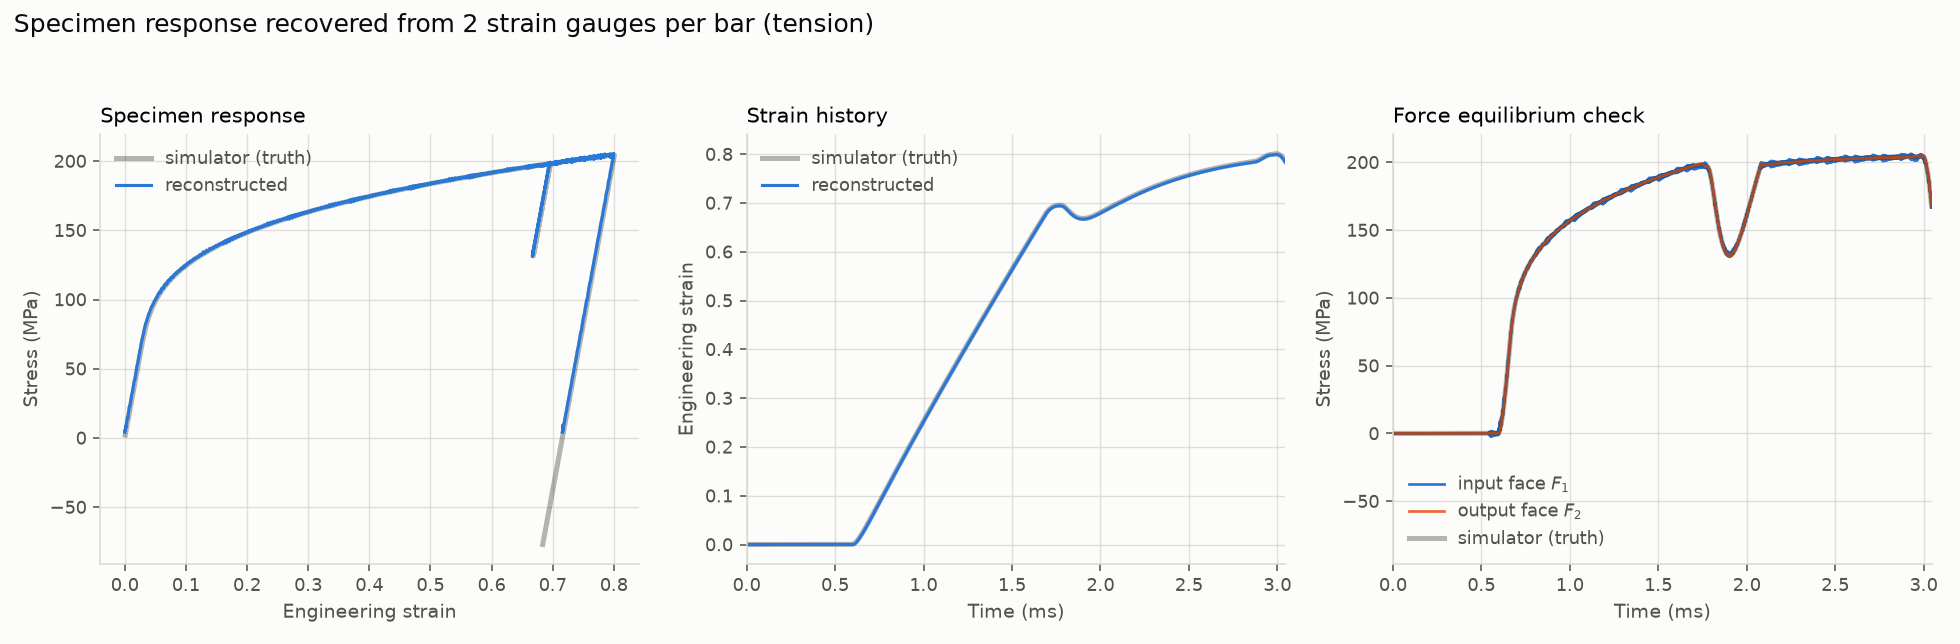
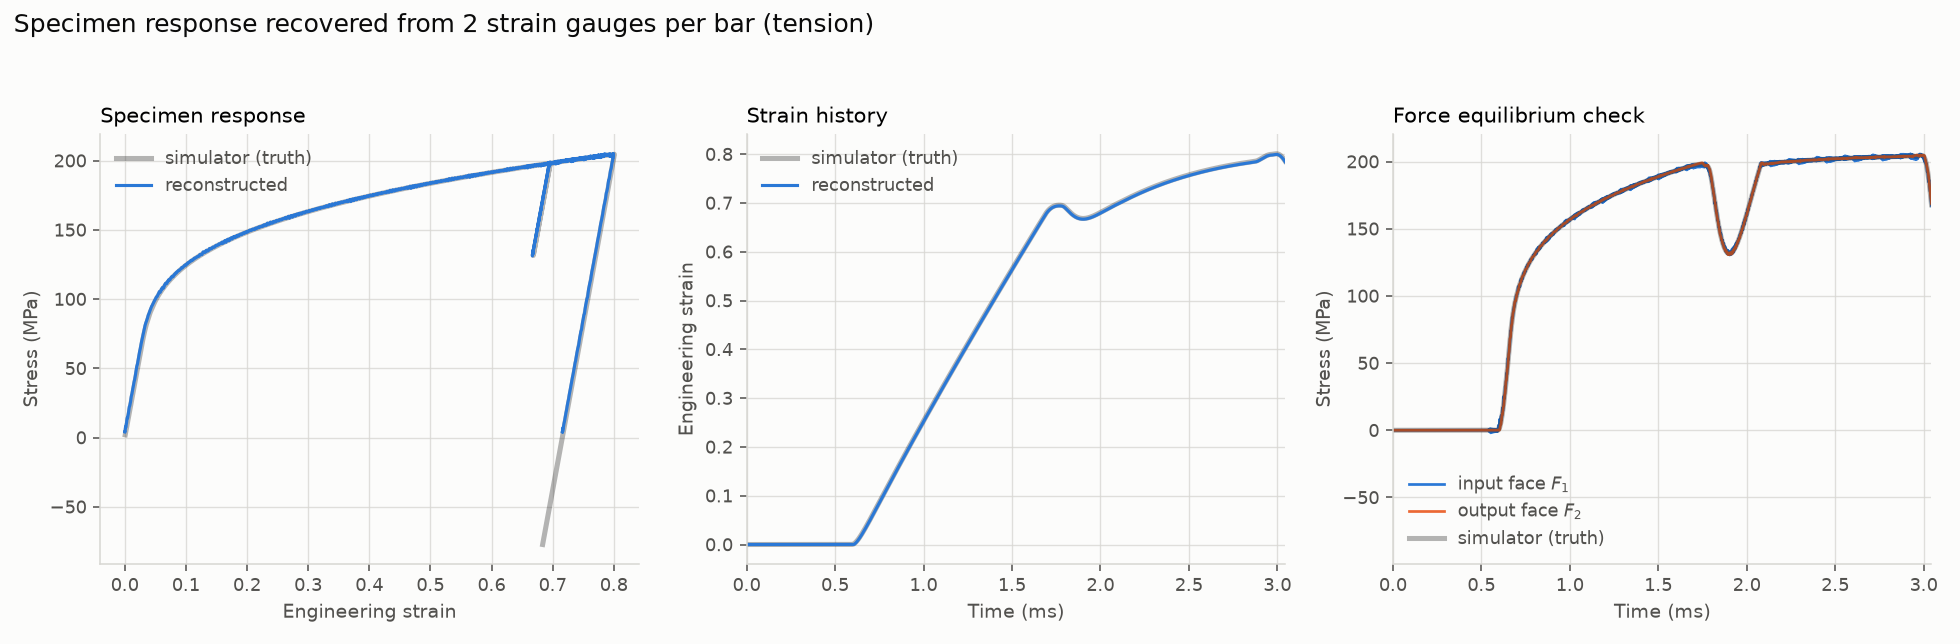
3wave: raise courant to 0.8, document the error budget
Investigated whether the explicit leapfrog integration limits accuracy, and
whether implicit or spectral integration would be worth switching to. It is
not, on both counts, and the measurements pointed the other way.

The lumped chain is exactly non-dispersive at courant = 1.0, so a LARGER
timestep is both faster and more accurate here. The tension model cannot
reach 1.0 -- the contact spring at the anvil node diverges there -- but is
stable to ~0.95, so 0.8 keeps a 20% margin:

  tension     stress 2.45e-03 -> 1.87e-03, strain unchanged, 1.6x fewer steps
  compression stress 4.23e-02 -> 3.73e-02

A ceiling test shows why no integrator can do much better: handing the
specimen estimator the simulator's exact interface forces, with no wave
separation at all, still gives 1.82e-03, because the specimen is genuinely
not in force equilibrium. Strain sits near 2.2e-03 across every integrator,
viscosity and mesh variant, and is flat against eta from 0.5 to 8.0 /ms.
Artificial viscosity matters more than the integrator: halving it doubles
the stress error.

Adds an "Accuracy and time integration" section recording the dispersion
relation, the error budget, the courant sweep and the reasoning against
implicit and spectral methods, so the question is settled in the repo.

Also refreshes the compression validation block, which still quoted
three-gauge figures after that case moved to two gauges.

diff --git a/3wave/README.md b/3wave/README.md
@@ -319,6 +319,121 @@ the stress looks perfect while the strain is garbage. **Tune eta on the strain,
 never the stress.** The module docstring in `wave_separation.py` has the full
 reasoning.
 
+That table was measured on the direct-impact case. On the current SHTB
+configuration the picture is blunter: eta is **completely flat from 0.5 to 8.0
+/ms** — every error identical to four digits — and only degrades below 0.5. Once
+you are above the floor, eta is not a tuning knob at all, and nothing is gained
+by hunting for an optimum. Re-measure it for your own record rather than
+assuming either table applies.
+
+## Accuracy and time integration
+
+Both simulators use explicit leapfrog on a lumped mass-spring chain. That is a
+deliberate choice, not an unexamined default, and the error budget below is why.
+The short version: **the time integration is not what limits accuracy here, and
+neither an implicit scheme nor a spectral method would help.**
+
+### The scheme is exactly non-dispersive at courant = 1
+
+For this discretisation the leapfrog dispersion relation is
+
+```
+sin(w~ dt/2) = C · sin(k · dx/2),        C = c·dt/dx
+```
+
+At `C = 1` the sine inverts exactly, every wavenumber travels at exactly `c`, and
+the numerical phase error is **zero at all wavelengths** — the "magic timestep".
+Below it, the error is small and grows with frequency:
+
+| f [kHz] | lambda [mm] | C = 0.5 | C = 0.8 | C = 1.0 |
+|---|---|---|---|---|
+| 10 | 505 | -4.8e-06 | -1.7e-06 | 0 |
+| 100 | 51 | -4.8e-04 | -1.7e-04 | 0 |
+| 200 | 25 | -1.9e-03 | -7.0e-04 | 0 |
+
+(`c_num/c - 1`, for `dx = 1 mm`.) At `C = 0.5` and 100 kHz that is 0.29 µs of
+timing drift over the full 3020 mm bar — 0.03 % of the 1097 µs pulse.
+
+The consequence is the opposite of the usual intuition: **a larger timestep is
+both faster and more accurate here.** Raising `courant` reduces phase error
+rather than adding any.
+
+### Where the error actually is
+
+Measured on the SHTB case, varying one thing at a time:
+
+| Variant | stress rel L2 | strain rel L2 |
+|---|---|---|
+| `C=0.8, damp=0.01, dx=1.0` (shipped) | 1.87e-03 | 2.27e-03 |
+| `C=0.5` | 2.45e-03 | 2.29e-03 |
+| half viscosity, `damp=0.005` | 5.50e-03 | 2.39e-03 |
+| double viscosity, `damp=0.02` | 1.92e-03 | 2.46e-03 |
+| 2x mesh, `dx=0.5` (2x cost) | 2.00e-03 | 2.11e-03 |
+| **exact interface forces, no separation at all** | **1.82e-03** | — |
+
+Two rows decide the question:
+
+- **The last one is a ceiling test.** Hand the specimen estimator the
+  simulator's own exact interface forces — skipping the wave separation
+  entirely — and the stress error is still 1.82e-03, because the specimen is
+  genuinely not in force equilibrium (face-force disagreement 2.75e-03). Most of
+  the residual is there before any numerics.
+- **Strain sits near 2.2e-03 regardless.** No integrator, viscosity or mesh
+  setting moves it much, and eta does not move it at all. It is set by the 1D
+  reduction — engineering strain from the face-velocity difference, against a
+  specimen that is itself a wave-bearing body.
+
+Note also that **artificial viscosity matters more than the integrator**:
+halving it more than doubles the stress error. It is suppressing grid ringing at
+the wavefronts, not merely cosmetic.
+
+### Why courant = 0.8
+
+| C | steps | stress | strain | F_in |
+|---|---|---|---|---|
+| 0.50 | 36861 | 2.45e-03 | 2.29e-03 | 5.25e-03 |
+| **0.80** | **23038** | **1.87e-03** | **2.27e-03** | **4.39e-03** |
+| 0.90 | 20478 | 1.68e-03 | 2.46e-03 | 4.18e-03 |
+| 0.95 | 19400 | 1.63e-03 | 2.54e-03 | 4.14e-03 |
+| 1.00 | — | NaN | | |
+
+The magic timestep is unreachable in the tension model: the contact spring adds a
+second force path at the anvil node and `C = 1.0` diverges, though it stays
+stable to ~0.95. `0.8` takes 24 % off the stress error, leaves strain unchanged,
+runs **1.6x fewer steps**, and keeps a 20 % stability margin. That margin is
+robust — still stable at 0.9 with a steel striker, whose contact is 70x stiffer,
+because `k_contact` derives from the striker's own modulus and `dt` already
+tracks the fastest material present.
+
+Curiously, the compression case is *worse* at the exact `C = 1.0, damp = 0`
+setting (5.16e-02 against 4.23e-02 at `C = 0.5`). Exact integration then leaves
+the discontinuous initial velocity as an undamped one-sample impulse at every
+wavefront, and the reduction handles that ringing badly. Exact in time is not the
+same as accurate overall.
+
+### Why not implicit, why not spectral
+
+**Implicit** (Newmark, generalised-α) buys unconditional stability, whose only
+value is taking `dt` far above the CFL limit. For wave propagation that smears
+exactly the wavefronts being measured — implicit schemes carry period elongation
+and, with numerical damping, amplitude decay. It would also need a Newton solve
+every step, because both the contact and the specimen plasticity are non-smooth.
+Strictly worse, for real added complexity.
+
+**Spectral** methods are a poor fit for this geometry. The model has material
+discontinuities (steel anvil | aluminium bar | soft specimen), a unilateral
+contact, a yield surface, and free ends. Fourier methods need periodicity and
+smoothness and would ring at every one of those; Chebyshev handles the
+non-periodicity but degrades the timestep limit to O(1/N²) and still breaks on
+the discontinuities. A spectral *element* method with element boundaries placed
+on the material interfaces would be the principled high-order choice — it is what
+seismology uses, and it keeps an explicit leapfrog and a diagonal mass matrix —
+but it is a full rewrite whose payoff is capped by the 1.8e-03 floor above.
+
+**If more accuracy is ever needed, refine the mesh** — that is the lever with a
+measurable effect (`dx = 0.5` gives 2.00e-03 at twice the cost) — or change the
+specimen reduction, which is what the floor is actually made of.
+
 ## Files
 
 | File | Purpose |
@@ -356,12 +471,17 @@ library from Python 3.11.
 the gauge signals alone, through 38 % strain including the wave-overlap regime:
 
 ```
-peak specimen strain (true)      : 0.3843
-peak strain rate (reconstructed) : 975 /s
-stress   rel L2 err vs truth     : 1.7e-02
-strain   rel L2 err vs truth     : 1.6e-03
-force equilibrium |F1-F2|/max|F1|: mean 3.1e-02
+peak specimen strain (true)      : 0.3851
+peak strain rate (reconstructed) : 957 /s
+stress   rel L2 err vs truth     : 3.7e-02
+strain   rel L2 err vs truth     : 3.0e-03
+force equilibrium |F1-F2|/max|F1|: mean 2.9e-02
 ```
+
+That is the shipped 2-gauges-per-bar layout. The compression case is the one
+that *loses* by dropping to two gauges — with three it gives 1.7e-02 stress and
+1.6e-03 strain. The tension case gains; see below. If you work mainly in
+compression, put `gauges = [130.0, 530.0, 1177.0]` back in `[compression]`.
 
 ## The tension simulator (SHTB)
 
@@ -401,15 +521,20 @@ Differences from the compression model that affect the reduction:
   ringing that never decays without it. `courant = 1.0` is unstable (NaN)
   because the contact spring adds a second force path at the anvil node.
 
-Validated end to end, 3 gauges per bar, eta = 1.0 /ms:
+Validated end to end, 2 gauges per bar, eta = 1.0 /ms, courant = 0.8:
 
 ```
-peak specimen strain (true)      : 0.8008
-peak strain rate (reconstructed) : 683 /s
-stress   rel L2 err vs truth     : 3.8e-03
-strain   rel L2 err vs truth     : 2.2e-03
-force equilibrium |F1-F2|/max|F1|: mean 4.0e-03
+peak specimen strain (true)      : 0.8009
+peak strain rate (reconstructed) : 684 /s
+stress   rel L2 err vs truth     : 1.9e-03
+strain   rel L2 err vs truth     : 2.3e-03
+force equilibrium |F1-F2|/max|F1|: mean 3.5e-03
 ```
+
+The stress figure is within 3 % of the 1.82e-03 ceiling that the specimen
+estimator gives even when handed *exact* interface forces — see
+[Accuracy and time integration](#accuracy-and-time-integration). There is very
+little left in this number that better wave separation could recover.
 
 This is far better than the impedance-matched aluminium striker on 2000 mm bars
 that preceded it (stress 6.7e-2, equilibrium 8.3e-2), and the long pulse is why:
